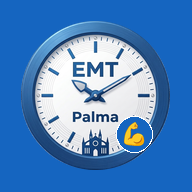
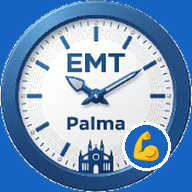
La aplicación de hace dos años en Samsung, y el aro de color del icono instalado (#232)
* Por qué el navegador de Samsung enseña la aplicación de hace dos años

Lo que se ve ahí —"Horas Realizadas", con su correo y su contraseña— es una
copia guardada por el trabajador de servicio de una versión vieja, el que
guardaba la página entera y la servía desde su copia sin volver a preguntar.
La aplicación dejó de registrar ninguno hace tiempo, pero el viejo se quedó
puesto en los navegadores donde se había instalado, y ahí sigue sirviendo lo
suyo.

Así que ahora se registra el de ahora, que para la página y el código va
siempre a la red y borra lo guardado por los anteriores. Al tomar el relevo,
la página se recarga sola: con entrar una vez, el navegador se pone al día.
En la app del móvil no se registra nada, que ahí las páginas son suyas.

Y las reglas de caché de la web miraban /index.html, que no lo pide nadie: se
piden / y /gestion/. Ahora también esas.

Claude-Session: https://claude.ai/code/session_01EsHkRik3dQiNgu8ayyq2TY

* Fuera el aro de color del icono instalado desde el navegador

El reloj iba al 78% sobre el color de la aplicación, así que el lanzador
dejaba un aro morado —o azul— alrededor que el icono de la app no tiene.
Ahora va a sangre, como el del móvil: el color solo queda en las esquinas, y
esas el lanzador se las come al recortar.

Claude-Session: https://claude.ai/code/session_01EsHkRik3dQiNgu8ayyq2TY

---------

diff --git a/gestion/index.html b/gestion/index.html
@@ -2013,5 +2013,31 @@
 
 <script src="version.js"></script>
 <script src="app.js"></script>
+<script>
+// Lo que hace que el navegador ofrezca instalar la aplicación es tener un
+// trabajador de servicio registrado. La aplicación dejó de registrarlo hace
+// tiempo, pero el de las versiones viejas se quedó puesto en los navegadores
+// donde se había instalado: aquel guardaba la página entera y la servía desde
+// su copia, así que en alguno se seguía viendo la aplicación de hace dos años,
+// con su pantalla de correo y contraseña. Se registra el de ahora, que para la
+// página y el código va siempre a la red, y al tomar el relevo se recarga.
+// En la app del móvil no, que ahí las páginas son suyas y no hay nada que
+// cachear.
+(function () {
+    if (!('serviceWorker' in navigator)) return;
+    if (window.Capacitor || location.hostname === 'localhost') return;
+    var recargando = false;
+    navigator.serviceWorker.addEventListener('controllerchange', function () {
+        if (recargando) return;
+        recargando = true;
+        location.reload();
+    });
+    window.addEventListener('load', function () {
+        navigator.serviceWorker.register('service-worker.js', { updateViaCache: 'none' })
+            .then(function (r) { return r.update(); })
+            .catch(function () {});
+    });
+})();
+</script>
 </body>
 </html>

diff --git a/index.html b/index.html
@@ -1883,5 +1883,31 @@
 
 <script src="version.js"></script>
 <script src="app.js"></script>
+<script>
+// Lo que hace que el navegador ofrezca instalar la aplicación es tener un
+// trabajador de servicio registrado. La aplicación dejó de registrarlo hace
+// tiempo, pero el de las versiones viejas se quedó puesto en los navegadores
+// donde se había instalado: aquel guardaba la página entera y la servía desde
+// su copia, así que en alguno se seguía viendo la aplicación de hace dos años,
+// con su pantalla de correo y contraseña. Se registra el de ahora, que para la
+// página y el código va siempre a la red, y al tomar el relevo se recarga.
+// En la app del móvil no, que ahí las páginas son suyas y no hay nada que
+// cachear.
+(function () {
+    if (!('serviceWorker' in navigator)) return;
+    if (window.Capacitor || location.hostname === 'localhost') return;
+    var recargando = false;
+    navigator.serviceWorker.addEventListener('controllerchange', function () {
+        if (recargando) return;
+        recargando = true;
+        location.reload();
+    });
+    window.addEventListener('load', function () {
+        navigator.serviceWorker.register('service-worker.js', { updateViaCache: 'none' })
+            .then(function (r) { return r.update(); })
+            .catch(function () {});
+    });
+})();
+</script>
 </body>
 </html>
